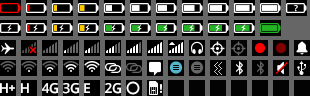
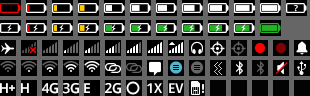
multiresolution fix: regression fix by merge

Changed region(s): [[0.4645, 0.8438, 0.6677, 1.0]]

diff --git a/apps/system/style/statusbar/statusbar.css b/apps/system/style/statusbar/statusbar.css
@@ -219,6 +219,22 @@ body, html {
   background-position: -12.6rem -8rem;
 }
 
+.sb-icon-data[data-type="1X"] {
+  background-position: -14.7rem -8rem;
+}
+
+.sb-icon-data[data-type="EV"] {
+  background-position: -16.8rem -8rem;
+}
+
+.sb-icon-signal-type[data-type="1X"] {
+  background-position: -14.7rem -8rem;
+}
+
+.sb-icon-signal-type[data-type="EV"] {
+  background-position: -16.8rem -8rem;
+}
+
 .sb-icon-flight-mode {
   background-position: 0 -4rem;
 }
@@ -260,7 +276,7 @@ body, html {
 
 .sb-icon-signal {
   /* default icon is the "no sim" icon */
-  background-position: -14.7rem -4rem;
+  background-position: -16.8rem -4rem;
   position: relative;
 }
 
@@ -327,7 +343,7 @@ body, html {
 }
 
 .sb-icon-mute.vibration {
-  background-position: -210px -60px;
+  background-position: -21rem -6rem;
 }
 
 .sb-icon-usb {
@@ -413,3 +429,27 @@ body, html {
   background-size: 1.6rem;
   background-position: 0 0;
 }
+
+/* 480x800 phones */
+@media (orientation: portrait)  and (min-width: 480px) and (max-width: 539px),
+       (orientation: landscape) and (min-width: 800px) and (max-width: 959px) {
+}
+
+
+/* 540x960 phones */
+@media (orientation: portrait)  and (min-width: 540px),
+       (orientation: landscape) and (min-width: 960px) {
+  .sb-icon-signal[data-roaming="true"]::after {
+    background-image: url('images/icons_qhd.png');
+  }
+
+  .sb-icon-notification::before {
+    background-image: url('images/icons_qhd.png');	
+  }
+
+  .sb-icon {
+    background-image: url('images/icons_qhd.png');
+  }
+}
+
+

diff --git a/apps/communications/ftu/css/style.css b/apps/communications/ftu/css/style.css
@@ -68,7 +68,7 @@ html, body {
 }
 
 [role=navigation] button {
-  width: calc((100% - 1rem) / 2);
+  width: calc(100% / 2 - 0.5rem);
   float: left;
   margin-right: 1rem;
   position: relative;
